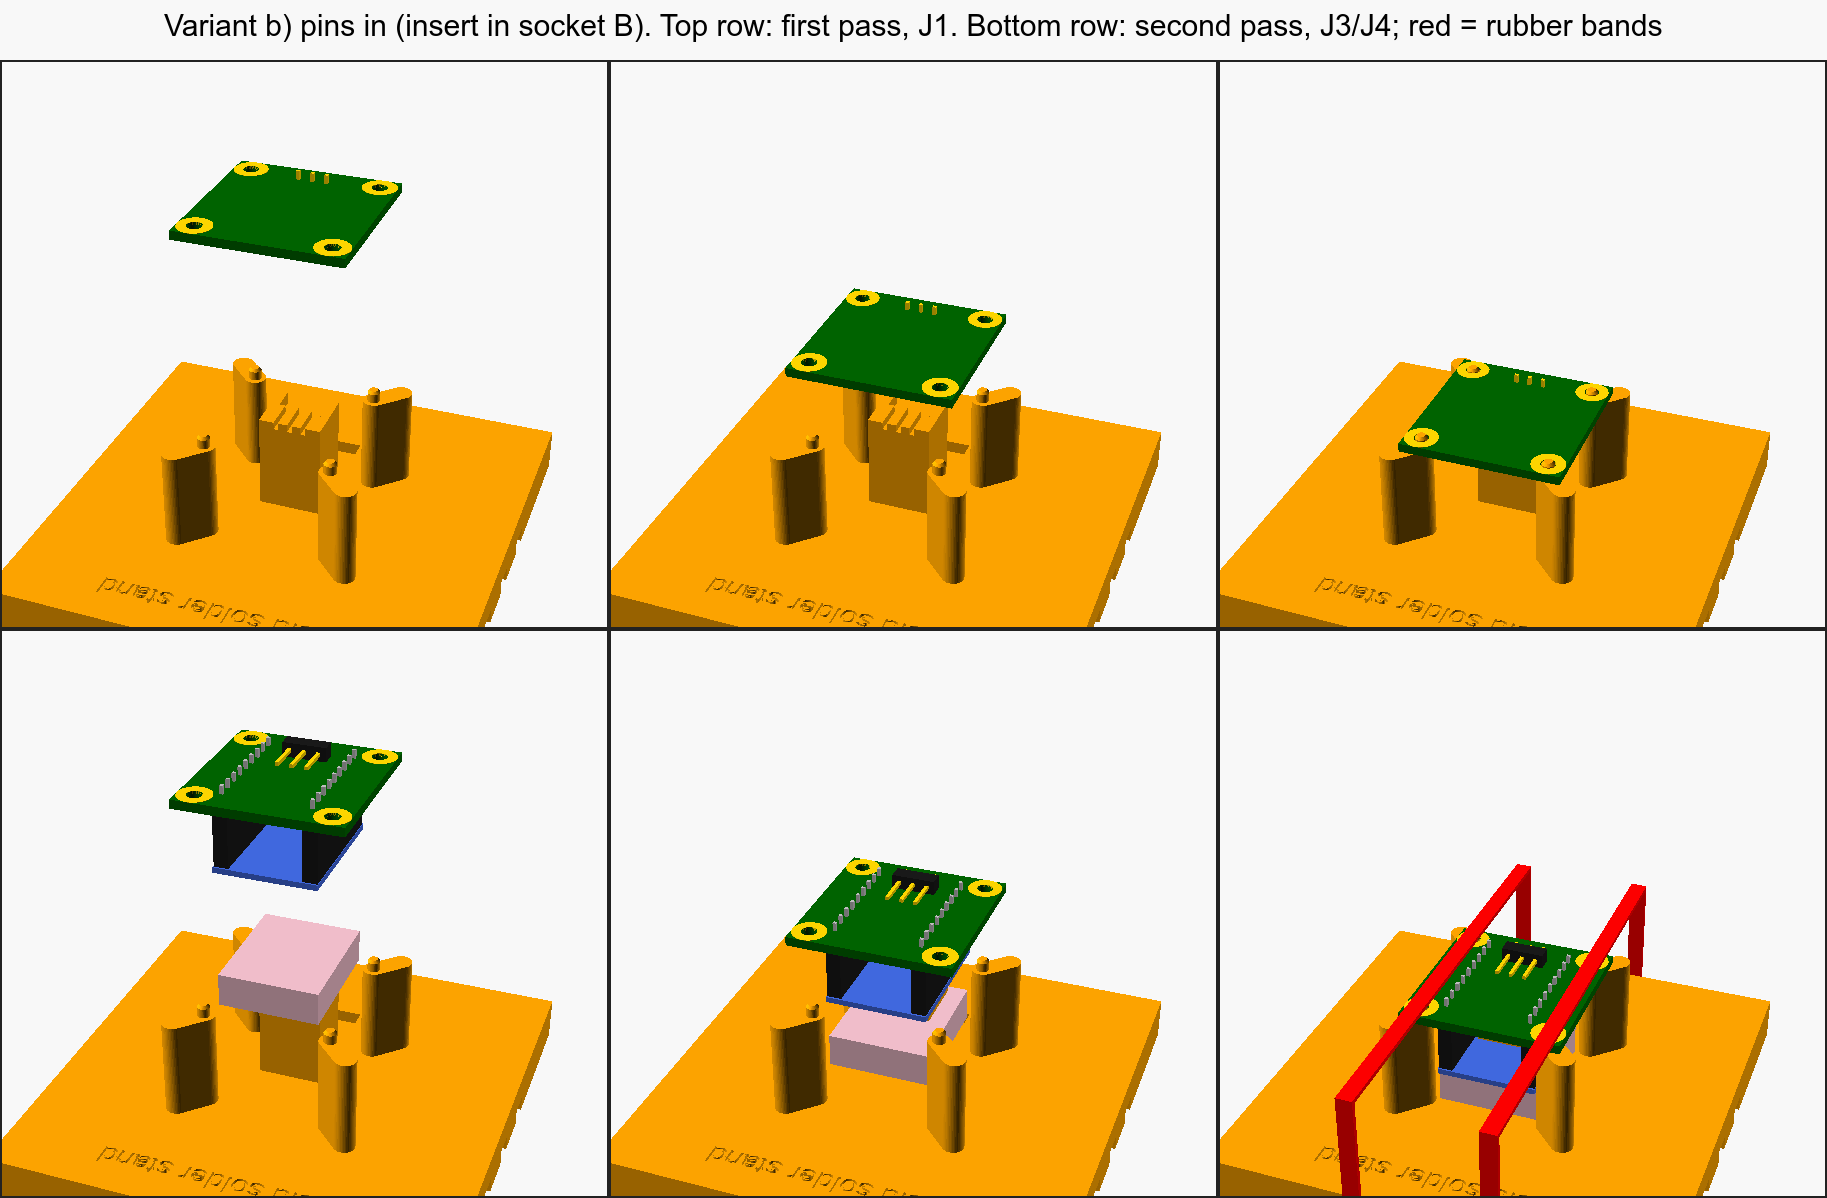
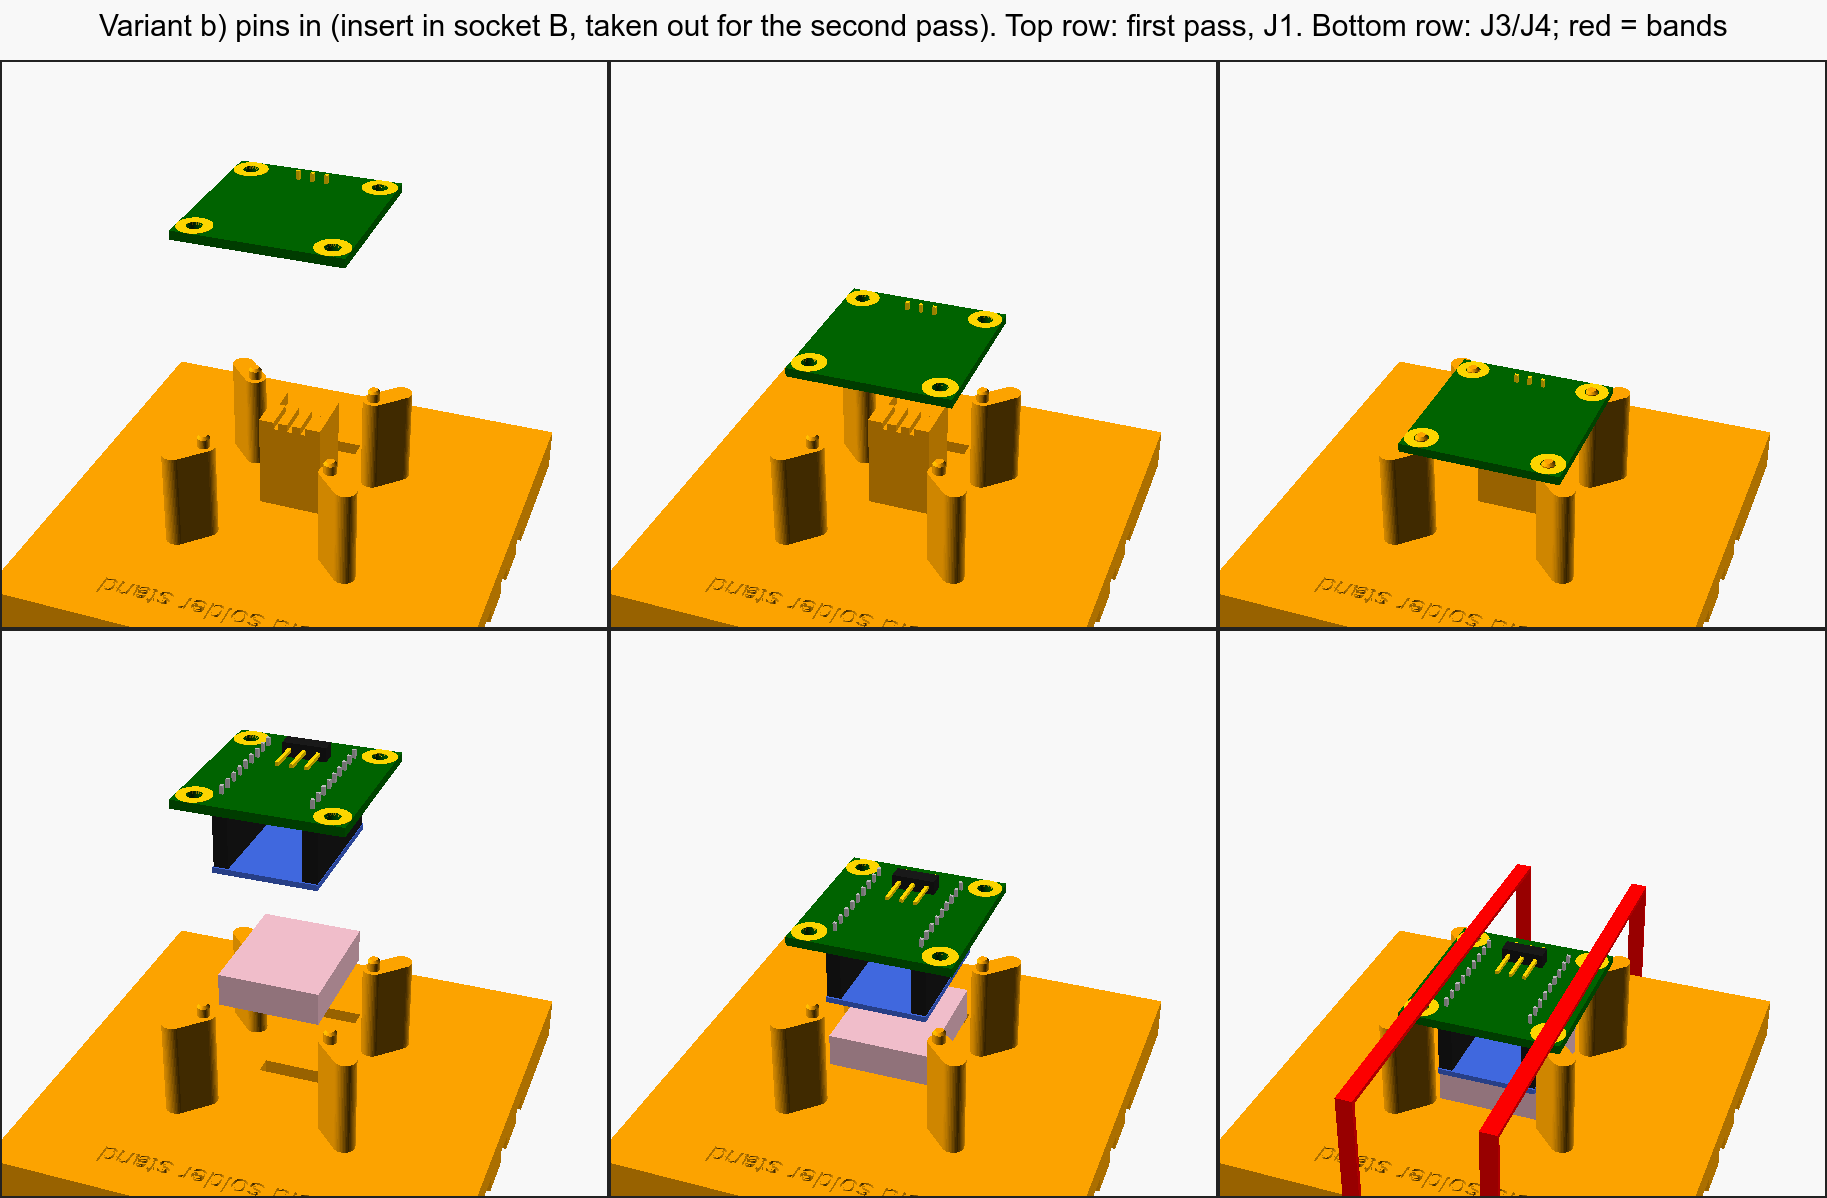
Solder stand: variant a keeps the insert in socket A, variant b takes it out for the second pass (model, docs, picture b)

Changed region(s): [[0.0624, 0.0, 0.936, 0.0309], [0.1248, 0.8339, 0.1872, 0.8957]]

diff --git a/docs/shield-pcb.md b/docs/shield-pcb.md
@@ -347,7 +347,7 @@ Also collected with all other open points in `roadmap.md`.
 - **To consider (2026-11-22, from the photo of the first working board): the servo connector deeper under the Zero.** On the rev A board the right-angle header J1 is at the USB-C end of the Zero, and from above the servo plug looks as if it stood against the USB-C connector. It does not get in its way: the servo plug sits on the shield (about 3 mm tall) and the Zero is 8.5 mm above the board on its sockets, with the USB-C connector higher still (the lower edge of a USB-C plug about 10 mm above the board), so the two plugs are on **different levels**. The way it is now, with the servo plug outside the board on the long pins of J1 that stick out of the edge, is the **intended variant** (the board stays at the size of the receiver shield and the plug does not need any room among the parts); the idea below is an alternative to it, not a repair. It makes it possible to move J1 **in the same plane, deeper into the board, under the Zero**: the servo plug then sits under the Zero's overhang, the USB-C cable goes in above it, and nothing gets in the way. Open points for a revision: the input protection (F1, R1, TVS1, D1, D2) sits in the strip before J1 at y 7 to 12 mm and would have to move, the plug needs about 8 mm along the row and a free path from the board edge to the header, the cable must still run out under the Zero to the receiver's S4, and the S V G labels (rev B) move with it: they go **to the edge of the board**, at the start of the plug's path, not beside the pins. With the plug pushed in they are hidden, but they tell **what the correct orientation of the cable is** before it is pushed in (S, V, G from left to right, the S wire, the one with the colour mark, on the S side; the square pad of the S pin is the first); the colour mark on the S wire stays. Other ways considered and not preferred: the connector to the side (the strips beside the Zero are about 5.5 mm and hold the mounting holes, LED1 and C1) or vertically up (it would still stand in front of the USB-C opening, and it adds height). Not decided; consider it for rev C or a rev B that is not ordered yet (rev B is only the silkscreen so far).
 - **Direction for the servo connector in a later revision (2026-11-22, not drawn yet): the holes of J1 moved inward.** The labels S V G stay at the edge of the board as they are (the plug seats about 5 mm behind them, so they are not covered). Only the **holes of J1** move: so far inward that the **whole plug is inside the outline of the board**, with the row of pins about **19 mm from the edge** (first thought 15 mm, the owner prefers 19; the long pins run towards the edge, the plug about 9 mm long covers them, so it ends about 8.5 mm behind the labels), and only the cable passes the edge. The plug is about 8.5 mm wide and the room between the socket strips of the Zero is 12.7 mm, so it goes between them; it is 3 mm tall under the Zero, which is 8.5 mm above the board. The price is the room: the plug covers the strip from y 8.5 to 17.5 mm and the body of J1 is at y 17.7 to 20.3 mm, so everything that sits there now moves: F1, R1, TVS1, D1, D2, C2, C6, C7, R6 and **the amplifier U1** (y 18.4 to 21.3 mm, x 9.7 to 12.6 mm, which the body of J1 would overlap). The input section and the amplifier area are laid out again; the S V G labels (rev B) keep their place. A sketch (not a KiCad change): `work/j1_deeper.png` on the owner's computer, not in the repository.
 - **Area test of that direction (2026-11-22): with the board and the parts as they are, it does not fit.** `tools/trial_place_j1.py` (data from `tools/extract_board_for_trial.py`) places the 22 movable parts again by simulated annealing, inside the outline, outside the sockets, the mounting holes, the fixed parts and a keepout for the plug (from the edge of the board to the body of J1, about 8.7 mm wide). It is a courtyard test only, without routing; calibrated with the real board (0 overlaps at the present J1 position, and the annealing finds 0 overlaps there too). Result for the row of J1 pins at 6 mm: 4 overlaps left; 8 and 10 mm: 9; 12 mm: 15; **19 mm: 23 to 26**. The reason: the keepout of the plug takes a strip 8.7 mm wide out of the 12.7 mm between the socket rows, and the 22 parts need about 141 mm² of courtyards. To make a deeper J1 possible something has to give: parts on the bottom side (JLCPCB can fit both sides, for a fee), smaller passives (0402) and fewer optional parts (the jumpers JP1, JP2 with R4, R5 and the three 33 Ohm resistors R6 to R8 can be dropped or made links, about 40 mm²), a bigger board (it would no longer be the size of the receiver shield), or a shallower J1. 19 mm would need all of that and the whole amplifier area laid out again.
-- **The servo connector on the underside of the board (2026-11-22, summary of the variants, drawn as sketches, not tried):** the holes of J1 stay where they are in rev A (x 12.01 to 17.09 mm, y 4.2 mm), so the variants work **on the boards of rev A** without a change of the board; only the header is pushed in from the **bottom** and soldered from the top (in a separate step, the stand of today solders from the bottom). (a) **Flipped, the pins pointing out:** the body and the plug are under the board at the edge, the plug mostly outside the outline, the cable leaves under the board; the plug seen from below has the yellow wire (S) on the right. (b) **Flipped and turned by 180 degrees, the pins pointing in:** the body is on the inner side of the row of holes (y 5.7 to 8.4 mm), the plug is **entirely under the board** (y 8.5 to about 16 mm), nothing passes the edge, and the cable runs on under the board and leaves sideways or at the far end. The top side does not change in either case (the area test above does not apply: the underside has only the test pads at the bottom edge). It needs **about 5 mm of room under the board**; the placement in the model gives it, as the original CyberBrick modules are also built in layers with the openings in the top one. **The solder stand** (`hardware/solder_stand/`): J3 and J4 are soldered as before (board face down, the Zero in the pocket). J1 is soldered **first, in a separate pass with the board lying top side up on the posts**, so that its underside rests on the stand: both variants use **one loose insert** (`part = "j1_insert"`, printed on its own, lying on its back): a ledge under the body of J1, guides at both ends of the body, a comb with a slot for each long pin, and a peg as wide as the insert, flush with its back. The base has **two sockets**, mirror images about the row of J1's holes: in socket A (outside the board edge) the insert serves J1 with the pins out (variant a), in socket B, with the insert **turned by 180 degrees**, J1 turned by 180 degrees with the pins in ((b)). J1 is always on the underside, so the insert **stays in its socket in both passes** (first J1, board top side up, without the foam, then J3 and J4). After J1 is soldered the board is turned over and the sockets J3 and J4 are soldered face down as before. **The third iteration of the stand (the base with the two sockets and the loose insert, rubber band round the board and the stand) was printed and works (2026-11-23), tried with J1 on the underside of the board (the board top side up).** In use the pins of J1 have to be **held in place by hand** first and only then is the board put into the stand.
+- **The servo connector on the underside of the board (2026-11-22, summary of the variants, drawn as sketches, not tried):** the holes of J1 stay where they are in rev A (x 12.01 to 17.09 mm, y 4.2 mm), so the variants work **on the boards of rev A** without a change of the board; only the header is pushed in from the **bottom** and soldered from the top (in a separate step, the stand of today solders from the bottom). (a) **Flipped, the pins pointing out:** the body and the plug are under the board at the edge, the plug mostly outside the outline, the cable leaves under the board; the plug seen from below has the yellow wire (S) on the right. (b) **Flipped and turned by 180 degrees, the pins pointing in:** the body is on the inner side of the row of holes (y 5.7 to 8.4 mm), the plug is **entirely under the board** (y 8.5 to about 16 mm), nothing passes the edge, and the cable runs on under the board and leaves sideways or at the far end. The top side does not change in either case (the area test above does not apply: the underside has only the test pads at the bottom edge). It needs **about 5 mm of room under the board**; the placement in the model gives it, as the original CyberBrick modules are also built in layers with the openings in the top one. **The solder stand** (`hardware/solder_stand/`): J3 and J4 are soldered as before (board face down, the Zero in the pocket). J1 is soldered **first, in a separate pass with the board lying top side up on the posts**, so that its underside rests on the stand: both variants use **one loose insert** (`part = "j1_insert"`, printed on its own, lying on its back): a ledge under the body of J1, guides at both ends of the body, a comb with a slot for each long pin, and a peg as wide as the insert, flush with its back. The base has **two sockets**, mirror images about the row of J1's holes: in socket A (outside the board edge) the insert serves J1 with the pins out (variant a), in socket B, with the insert **turned by 180 degrees**, J1 turned by 180 degrees with the pins in ((b)). J1 is always on the underside, so in variant (a) the insert **stays in socket A in both passes** (first J1, board top side up, without the foam, then J3 and J4), and in variant (b) it is **taken out of socket B after the first pass**. After J1 is soldered the board is turned over and the sockets J3 and J4 are soldered face down as before. **The third iteration of the stand (the base with the two sockets and the loose insert, rubber band round the board and the stand) was printed and works (2026-11-23), tried with J1 on the underside of the board (the board top side up).** In use the pins of J1 have to be **held in place by hand** first and only then is the board put into the stand.
 - **Marking the USB side of the Zero (2026-11-22, an idea for the silkscreen):** instead of J3 and J4 (the names of the socket strips, which tell nothing to the user) write **USB** on the board at the end where the Zero's USB-C connector is, so that the Zero is fitted the right way round without counting pins. The square pad of pin 1 stays. Not done on rev B yet.
 - **To think about (noted 2026-11-15): holding the board in the solder stand.** The foam under the Zero pushes the board up, so today only its own weight and the four locating pins keep it down. For one board: screws M2.5 through two opposite corners (head 4.5 mm fits the 6 mm copper ring), or just hold it by hand until the first pins are soldered. For a series screws are too slow: a hinged lid with foam and a printed snap latch, or fitting the sockets at JLCPCB (see above) so that no stand is needed. Rubber bands (idea of 2026-11-22): two bands along the strips beside the board, round the whole stand. **The stand has the grooves for them (2026-11-22):** the base is 8 mm thick (was 4) and has a groove 4.5 mm wide and 3 mm deep in its underside both ways, three each way (the two along the long axis at the strips beside the board and two across at the rows of the mounting holes, and one in the middle between each pair), so a band sits in a groove and cannot slip. Tried with the printed stand on 2026-11-23: it holds the board. **Print setting: Bridge direction 45 degrees** (Bambu Studio, Advanced; the default is automatic), because of the grooves for the rubber bands: they run both ways under the base, and the layers over them bridge at 45 degrees across both.
 - **Option, to be considered (noted 2026-11-15): low sockets for J3/J4.** LaskaKit sells a 1x9 female strip with a 3.5 mm body (`LA217087H`, 0.24 EUR, 2.54 mm pitch, holes 1.02 mm, tails 2.6 mm; https://www.laskakit.cz/en/dutinkova-lista-2-54-mm-nizka-3-5mm-jednorada-prima/). Same footprint as the 8.5 mm strip, so no board change; the stack would be lower. Open points: the Zero-M's pins are probably longer (about 6 mm) than the 3.5 mm body, so the Zero would grip only on the contacts; measure the pins and try one pair on the prototype first; `hardware/solder_stand/` assumes the tall strips and would need a new pocket depth. A try, not a must. **Update 2026-11-21:** after seeing the rev A board with the Zero stacked on the tall sockets (side photo), the project owner wants lower sockets as a goal for rev B, at the very least; first measure the Zero's pin length and try a pair on a rev A board. Measured 2026-11-21: the Zero's pins are about 6 mm long (5.95 to 6.2 measured), from the underside of the yellow plastic of its pin header to the tip (side photo from the same day). In a 3.5 mm strip they would bottom out on the board, leaving the plastic about 2.5 to 2.7 mm above the strip, so the saving is about 2.5 mm, not 5 mm; to be confirmed with a real pair. **Recommendation (2026-11-21): try the LaskaKit 3.5 mm strip `LA217087H` first.** With 6 mm pins the Zero's underside would be at about 6 mm (3.5 mm body + 2.5 mm of plastic left above it) instead of 8.5 mm, which still clears the tallest part under it (J2, 2.9 mm); the Zero is held by the contacts only, so check that it does not tilt. A strip of about 5.5 to 6 mm would let the plastic seat, but none has been found or checked. **Decision 2026-11-21: for now we keep the 8.5 mm sockets and the Zero-M as they are.** The saving is only about 2.5 mm, the Zero's pins cannot be shortened, and a Zero without header (Waveshare ESP32-S3-Zero-N8R8, SKU 33879, not the 2 MB PSRAM base board) would be needed for shorter pins; reconsider if the space in the model turns out too tight.
